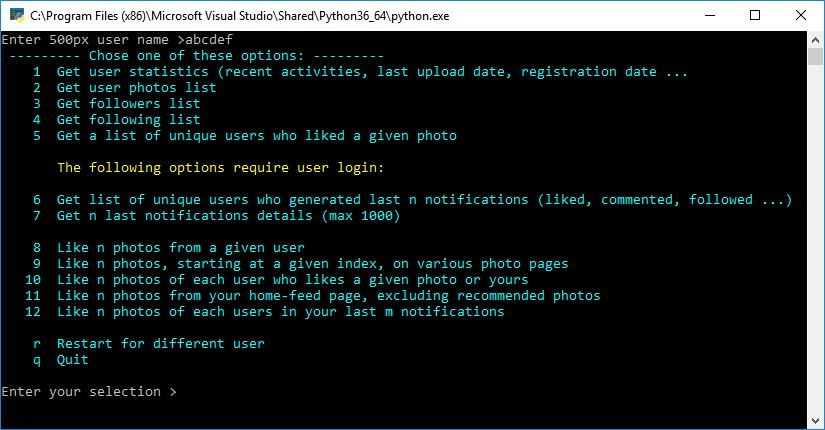
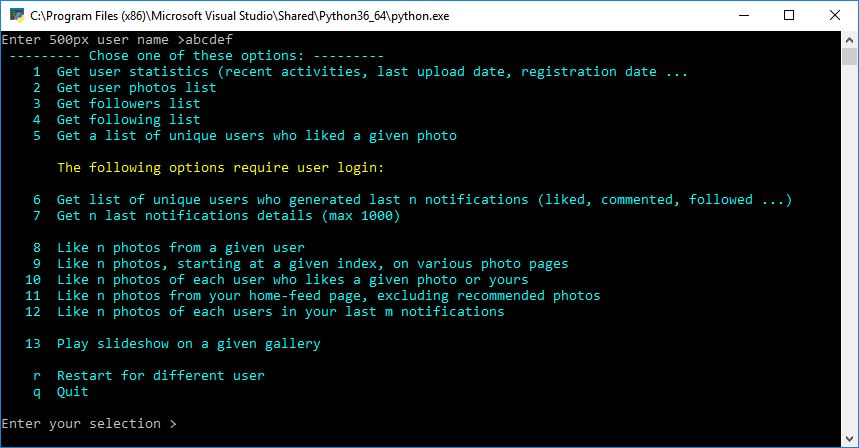
update for new option to play slideshow

diff --git a/README.md b/README.md
@@ -1,33 +1,36 @@
 # 500px-APIless: Scraping and automation
-A personal project created by curiosity and for fun, to extract information from 500px web site fordata analyzing, and to perform some automated processes.
+A personal project created by curiosity and for fun, to extract information from 500px web site for data analyzing, and to perform some automated processes.
 
 
-### A BIT OF HISTORY: ###
+**A BIT OF HISTORY:**
 
 500px is a famous photo sharing site who recently shutdown its API access (June 15 2018), leaving numerous applications relied on its API, useless.
 
-Without the API, data is harder to get, and it takes longer time to collect.
+Without the API, data is harder to collect, and it takes longer time to get them.
 But gone the API, came the challenges!
 
 
-As a 500px user who does not want to be manipulated by bots, I initially just wanted to gather data from the site, manually analyze them and figure it out the users who: 
+As a 500px user who does not want to be manipulated by bots, Initially I just wanted to gather data from the site, manually analyze it and figure it out the users who: 
  - Trigger me into following them, then ignore me, or un-follow me not long after.
  - Like every photo I posted, give un-mistaken robot comments, and like my photo back every time I liked theirs
  - Get unbelievable number of followers
- - ...
+ ...
  
-And as a programmer, I got curious. I wondered how things can be done. I ended up creating some bots myself.
-Not wanting to involve in the virtual fame, I created a new account for testing. 
+And as a programmer, I got curious, wondering how things can be done. I ended up creating some bots myself.
+For testing, I created a dummy account. 
+The photographer side of mine tells me don't get fool by the artificial number of affections that could be manipulated if one chooses to do so.
+The programmer side, on the other hand, says: why not? you got played. 
 
-I don't want to fool myself by the "artificial" number of affections that I know could be manipulated if one chooses to do so.
-
-I believe that using bots to promote popularity will do you harm. It kills all the fun interacting with fellow photographers.
+It is hard to mix two sides. I think that using bots to promote popularity will do you harm. It kills all the fun interacting with 'human' fellow photographers.
 
 Unless, you are in it not for fun, or your fun is getting ahead, no matter what...
 
+Before tring my bots ("just for fun" you may say), check out this old but very interesting article I came across some time ago. 
+It is from  Andy Hutchinson and it said:
+ [The Real Reason You Suck on Photo Sharing Sites: The Bots are Beating You](https://petapixel.com/2017/02/27/real-reason-suck-photo-sharing-sites-bots-beating/) 
 
 
-### WHAT IT CAN DO SO FAR: ###
+**WHAT IT CAN DO SO FAR:**
 
 ![Main menu](/MainMenu.JPG)
 
@@ -37,11 +40,11 @@ Results are saved on disk as CSV files. You will be offered to view the data in 
 
 The next 5 options, from 8 to 12, are the automated processes, for which you need to enter a password for actions.
 
-For sample output, please refer to [500px-Apiless.docx](/500px-Apiless.docx)   
+For sample output, please refer to [500px-APIless.docx](/500px-APIless.docx)   
 
 
 
-### ENVIRONMENT: ###
+**ENVIRONMENT:**
 
 This was developed using Visual Studio Code, testing and run on Windows 10, for Python version 3.6
 
@@ -49,7 +52,7 @@ This was developed using Visual Studio Code, testing and run on Windows 10, for 
 
 
 
-### DEPENDENCIES: ###
+**DEPENDENCIES:**
 
 Python 3.6 or later (freely distributed on the web)
 
@@ -59,9 +62,9 @@ Selenium
 
 
 
-### USAGE: ###
+**USAGE FOR WINDOW OS:**
 
-If Python and Selenium were installed properly, you should be able to double-click the file 500px-APIless.py in Window Explorer to run it.
+If Python and Selenium are installed properly, you should be able to double-click the file 500px-APIless.py in Window Explorer to run it.
 
 If not, make sure the location of python executable is in the PATH, open the Windows Terminal (cmd.exe), navigate to the location of the python script and type:
  pythom.exe 500px-APIless.py
@@ -69,13 +72,18 @@ If not, make sure the location of python executable is in the PATH, open the Win
 
 
 
-### LIMITATIONS, ISSUES, TODO LIST: ###
+**LIMITATIONS, ISSUES, TO DO LIST:**
 
 -	Not all exceptions are handled, especially with Selenium’s find_element… methods
 -	For the requests involved more than 1000 items (list of notifications, photos, users…), processing time takes longer time than I’d like it to. 
-- TODO: putting thumbnails on the result files, creating a graphical user interface, running a slideshow ... 
+-   TODO: 
+		- Handling more exceptions
+		- Optimizing for better performance (eg.use css selector instead of xpath, improve algorithms ...)
+		- Putting images thumbnais in the result files
+		- Add ChromeCast support to slideshow
+		- Making a GUI
 
-Prior to this project, I have zero knowledge on python and web scraping. I'm sure there are rooms for improvements. 
+Prior to this project, I have zero knowledge on python and web scraping. No doubt there are much rooms for improvements. 
 I left abundant comments in the code to make the intention clear, just in case someone wants to chip in.
 
 Feedback, bug report, contributions are all welcomed.
@@ -83,14 +91,14 @@ Feedback, bug report, contributions are all welcomed.
 
 
 
-### DISCLAIMER: ###  
+**DISCLAIMER:**  
 
 As in any web scraping, a change in page structure may break one or more options. Hopefully we can adapt when it happens. 
-(500px certainly did not make it easy by randomizing class names and by limiting the use of fixed tag id )
+(500px certainly did not make it easy by randomizing class names)
 
-This project is created for fun and for gaining personal experience with python and web scraping.**The owner assumes no responsibility.**
+This project is created for fun and for gaining personal experience with python and web scraping. The owner assumes no responsibility.
 Even though some limits have been set, some processes have been intentionally slowed down to make it look more human, 
-abusing or over-usage may result in your 500px account being banned. **Use this at your own risk.**
+abusing or over-usage may result in your account being banned. Use this at your own risk.
 
 
 
